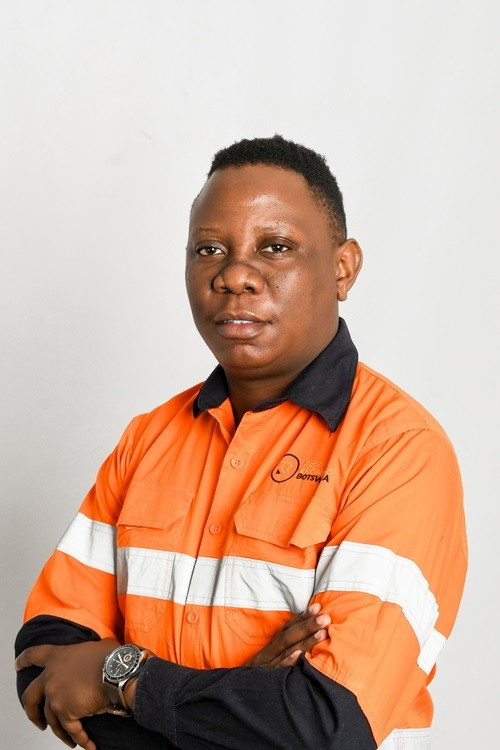
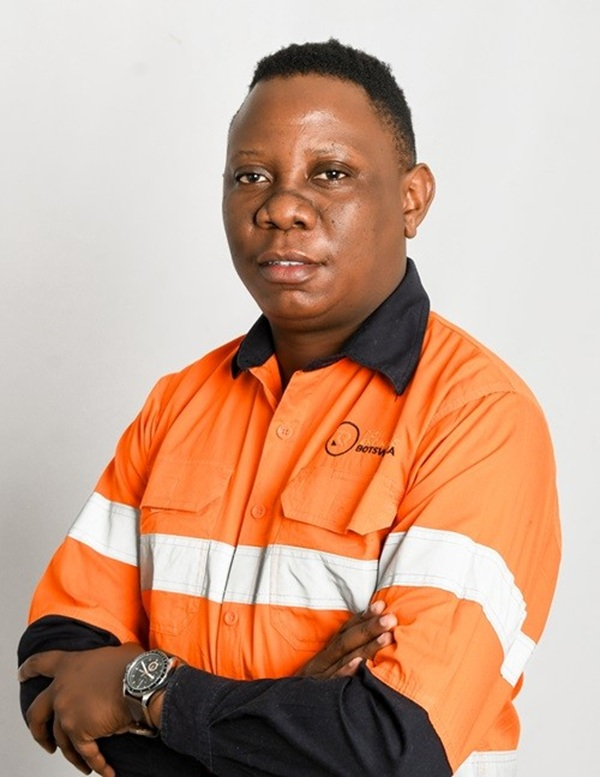
teams

diff --git a/styles.css b/styles.css
@@ -11,7 +11,7 @@
 /* about */
 .about-intro{display:grid;grid-template-columns:1.05fr .95fr;gap:62px;align-items:center}.about-photo{height:520px;object-fit:cover;border-radius:3px}.values{background:#0a0a0a;color:#fff}.values .display{max-width:700px}.values-grid{display:grid;grid-template-columns:repeat(3,1fr);gap:1px;background:#2b2b2b;margin-top:40px}.value{background:#0a0a0a;padding:32px}.value .n{color:var(--orange);font-weight:900;font-size:.72rem}.value h3{margin:17px 0 7px;font-size:1.05rem}.value p{margin:0;color:#a9a9a9;font-size:.82rem}.executive-grid{display:grid;grid-template-columns:repeat(2,1fr);gap:22px;margin-top:42px;max-width:800px}.exec{background:#f5f5f2;border-radius:16px;overflow:hidden}.exec img{width:100%;height:390px;object-fit:cover;object-position:center top}.exec-body{padding:23px}.exec .role{font-size:.69rem;color:var(--orange);font-weight:900;text-transform:uppercase;letter-spacing:.1em}.exec h3{margin:5px 0 10px;font-size:1.25rem}.exec p{font-size:.82rem;color:#6f6f6f;margin:0}.exec a{display:inline-block;margin-top:14px;font-size:.76rem;font-weight:800;border-bottom:2px solid var(--orange)}.value-prop{background:var(--orange);color:#fff}.vp-grid{display:grid;grid-template-columns:.8fr 1.2fr;gap:65px;align-items:start}.vp-grid .big{font-size:clamp(3rem,7vw,7rem);line-height:.8;font-weight:900;letter-spacing:-.06em}.vp-grid p{font-size:1rem;max-width:760px}.associations{display:grid;grid-template-columns:repeat(3,1fr);gap:18px;margin-top:35px}.assoc{border:1px solid var(--line);height:150px;display:flex;align-items:center;justify-content:center;padding:28px;background:#fff}.assoc img{max-height:80px;max-width:80%;object-fit:contain}.trust{background:var(--soft)}.trust-grid{display:grid;grid-template-columns:.7fr 1.3fr;gap:55px;align-items:center}.trust-stat strong{font-size:7rem;line-height:.8;font-weight:900;color:var(--orange)}.trust-stat span{display:block;font-size:1rem;font-weight:800;margin-top:12px}.logo-strip{display:grid;grid-template-columns:repeat(5,1fr);gap:12px}.client-logo{background:#fff;border:1px solid #e4e4df;height:105px;display:flex;align-items:center;justify-content:center;padding:17px}.client-logo img{max-height:62px;max-width:100%;object-fit:contain}.faq-layout{display:grid;grid-template-columns:.8fr 1.2fr;gap:60px;align-items:start}.faq-visual{width:100%;height:380px;object-fit:cover;border-radius:14px;margin-top:28px}.faq-list{border-top:1px solid #d6d6d6}.faq-item{border-bottom:1px solid #d6d6d6}.faq-q{width:100%;border:0;background:none;text-align:left;padding:22px 0;font-weight:800;display:flex;justify-content:space-between;gap:25px;cursor:pointer}.faq-q b{color:var(--orange);font-size:1.45rem;transition:.2s}.faq-a{max-height:0;overflow:hidden;transition:max-height .3s}.faq-a p{padding:0 34px 22px 0;margin:0;color:#6d6d6d;font-size:.88rem}.faq-item.open .faq-a{max-height:230px}.faq-item.open .faq-q b{transform:rotate(45deg)}
 /* team */
-.team-intro{max-width:760px}.team-grid{display:grid;grid-template-columns:repeat(5,1fr);gap:17px;margin-top:44px}.member{border:1px solid var(--line);background:#fff;cursor:pointer;transition:.25s;overflow:hidden}.member:hover{transform:translateY(-5px);box-shadow:var(--shadow)}.member img{width:100%;aspect-ratio:3/4;height:auto;object-fit:cover;object-position:center top}.member-info{padding:18px}.member-info h3{margin:0 0 3px;font-size:1rem}.member-info p{margin:0;color:var(--orange);font-size:.72rem;font-weight:800}.modal{position:fixed;inset:0;background:rgba(0,0,0,.72);z-index:2000;display:none;align-items:center;justify-content:center;padding:25px}.modal.open{display:flex}.modal-card{background:#fff;max-width:950px;width:100%;max-height:88vh;overflow:auto;position:relative;display:grid;grid-template-columns:340px 1fr}.modal-img{width:100%;height:100%;min-height:520px;object-fit:cover;object-position:center top}.modal-content{padding:38px}.modal-role{color:var(--orange);font-size:.72rem;font-weight:900;text-transform:uppercase;letter-spacing:.1em}.modal-content h2{font-size:2rem;margin:7px 0 4px}.qual{font-size:.82rem;font-weight:700;color:#555;margin-bottom:20px}.bio{font-size:.9rem;color:#555}.close-modal{position:absolute;right:17px;top:17px;width:38px;height:38px;border-radius:50%;border:0;background:#111;color:#fff;font-size:1.3rem;cursor:pointer;z-index:2}
+.team-intro{max-width:760px}.team-grid{display:grid;grid-template-columns:repeat(5,1fr);gap:17px;margin-top:44px}.member{border:1px solid var(--line);background:#fff;cursor:pointer;transition:.25s;overflow:hidden}.member:hover{transform:translateY(-5px);box-shadow:var(--shadow)}.member img{width:100%;aspect-ratio:3/4;height:auto;object-fit:cover;object-position:center top}.member img.zoom-tight{transform:scale(1.38);object-position:center 15%}.member-info{padding:18px}.member-info h3{margin:0 0 3px;font-size:1rem}.member-info p{margin:0;color:var(--orange);font-size:.72rem;font-weight:800}.modal{position:fixed;inset:0;background:rgba(0,0,0,.72);z-index:2000;display:none;align-items:center;justify-content:center;padding:25px}.modal.open{display:flex}.modal-card{background:#fff;max-width:950px;width:100%;max-height:88vh;overflow:auto;position:relative;display:grid;grid-template-columns:340px 1fr}.modal-img{width:100%;height:100%;min-height:520px;object-fit:cover;object-position:center top}.modal-img-wrap{position:relative;overflow:hidden;width:100%;height:100%;min-height:520px}.modal-img-wrap .modal-img{position:absolute;inset:0;min-height:0}.modal-img.zoom-tight{transform:scale(1.3);object-position:center 15%}.modal-content{padding:38px}.modal-role{color:var(--orange);font-size:.72rem;font-weight:900;text-transform:uppercase;letter-spacing:.1em}.modal-content h2{font-size:2rem;margin:7px 0 4px}.qual{font-size:.82rem;font-weight:700;color:#555;margin-bottom:20px}.bio{font-size:.9rem;color:#555}.close-modal{position:absolute;right:17px;top:17px;width:38px;height:38px;border-radius:50%;border:0;background:#111;color:#fff;font-size:1.3rem;cursor:pointer;z-index:2}
 /* contact */
 .contact-wrap{display:grid;grid-template-columns:.88fr 1.12fr;min-height:720px}.contact-image{min-height:720px;background:url('contact-wind.jpg') center/cover no-repeat;position:relative}.contact-image:after{content:"";position:absolute;inset:0;background:linear-gradient(0deg,rgba(0,0,0,.35),transparent 60%)}.contact-panel{padding:68px clamp(30px,6vw,88px);background:#fff}.contact-panel h1{font-size:clamp(3rem,6vw,6rem);line-height:.9;letter-spacing:-.06em;margin:0}.contact-meta{display:grid;grid-template-columns:1fr 1fr;gap:16px;margin:31px 0 36px}.meta-box{border-top:2px solid var(--orange);padding-top:11px}.meta-box small{display:block;color:#999;font-size:.67rem;text-transform:uppercase;letter-spacing:.1em;font-weight:800}.meta-box span{font-size:.82rem}.form-grid{display:grid;grid-template-columns:1fr 1fr;gap:15px}.field.full{grid-column:1/-1}.field label{display:block;font-size:.68rem;font-weight:900;text-transform:uppercase;letter-spacing:.08em;margin-bottom:6px}.field input,.field select,.field textarea{width:100%;border:1px solid #d8d8d8;border-radius:2px;padding:13px 14px;outline:none;background:#fff}.field input:focus,.field select:focus,.field textarea:focus{border-color:var(--orange);box-shadow:0 0 0 3px rgba(233,97,38,.09)}.field textarea{min-height:145px;resize:vertical}.form-note{font-size:.7rem;color:#8a8a8a;margin:10px 0 18px}.form-status{font-size:.82rem;margin-top:14px;padding:12px 16px;border-radius:4px;display:none}.form-status.show{display:block}.form-status.success{background:#e9f7ee;color:#1d7a3c;border:1px solid #bfe6cc}.form-status.error{background:#fdecea;color:#b3261e;border:1px solid #f3c4c0}.field.invalid input,.field.invalid select,.field.invalid textarea{border-color:#d93025;box-shadow:0 0 0 3px rgba(217,48,37,.08)}.field-error{display:none;color:#d93025;font-size:.7rem;margin-top:5px;font-weight:700}.field.invalid .field-error{display:block}.hp-field{position:absolute;left:-9999px;top:-9999px;opacity:0;height:0;width:0;pointer-events:none}
 /* services/resources */
@@ -19,14 +19,14 @@
 /* resources: checklist + mini-app shell */
 .resource-section{margin-top:70px}.resource-section:first-child{margin-top:0}.checklist-card{background:var(--soft);border-top:5px solid var(--orange);padding:44px;border-radius:4px}.checklist-card h2{margin:0 0 14px}.checklist-card .lead{margin:0 0 26px;max-width:640px}.checklist-note{margin-top:22px;padding:14px 18px;background:#fff;border:1px dashed #cfcfcf;border-radius:4px;font-size:.78rem;color:#777;max-width:640px}.mini-app-card{background:#0a0a0a;color:#fff;padding:44px;border-radius:4px}.mini-app-card h2{margin:0 0 14px;color:#fff}.mini-app-card .lead{color:#b7b7b7;margin:0 0 26px;max-width:640px}.mini-app-shell{background:#141414;border:1px solid #262626;border-radius:10px;padding:30px;max-width:640px}.mini-app-progress{height:6px;background:#262626;border-radius:999px;overflow:hidden;margin-bottom:24px}.mini-app-progress-bar{height:100%;width:0%;background:var(--orange);transition:width .3s}.mini-app-question{min-height:120px;display:flex;align-items:center;justify-content:center;color:#777;font-size:.85rem;text-align:center;border:1px dashed #333;border-radius:8px;padding:20px}.mini-app-results{display:none;text-align:center;padding:20px}.mini-app-results.open{display:block}.mini-app-start{margin-top:4px}
 /* homepage logo marquee */
-.logo-marquee{overflow:hidden;background:#fff;border-bottom:1px solid var(--line);padding:34px 0}.marquee-track{display:flex;align-items:center;gap:56px;width:max-content;animation:marquee-scroll 110s linear infinite}.logo-marquee:hover .marquee-track{animation-play-state:paused}.marquee-track img{height:44px;max-width:130px;width:auto;object-fit:contain;filter:grayscale(1);opacity:.7;transition:.25s;flex:none}.marquee-track img:hover{filter:none;opacity:1}@keyframes marquee-scroll{from{transform:translateX(0)}to{transform:translateX(-50%)}}
+.logo-marquee{overflow:hidden;background:#fff;border-bottom:1px solid var(--line);padding:34px 0}.marquee-track{display:flex;align-items:center;gap:56px;width:max-content;animation:marquee-scroll 110s linear infinite}.logo-marquee:hover .marquee-track{animation-play-state:paused}.marquee-track img{height:44px;max-width:130px;width:auto;object-fit:contain;opacity:.92;transition:.25s;flex:none}.marquee-track img:hover{opacity:1;transform:scale(1.06)}@keyframes marquee-scroll{from{transform:translateX(0)}to{transform:translateX(-50%)}}
 /* testimonials */
-.testimonial-grid{display:grid;grid-template-columns:repeat(3,1fr);gap:20px;margin-top:40px}.testimonial-card{background:var(--soft);border-radius:16px;padding:30px;border-top:4px solid var(--orange);display:flex;flex-direction:column}.testimonial-card .t-quote{margin:0 0 20px;font-size:.86rem;color:#3c3c3c;line-height:1.6;font-style:italic;flex:1}.testimonial-card .t-attrib{margin-top:auto;padding-top:14px;border-top:1px solid var(--line)}.testimonial-card .t-name{display:block;font-weight:800;color:#111;font-size:.82rem}.testimonial-card .t-role{display:block;color:var(--muted);font-size:.72rem;margin-top:2px}
+.testimonial-grid{display:grid;grid-template-columns:repeat(3,1fr);gap:20px;margin-top:40px}.testimonial-card{background:var(--soft);border-radius:16px;padding:30px;border-top:4px solid var(--orange);display:flex;flex-direction:column}.testimonial-card .t-logo-row{display:flex;align-items:center;height:38px;margin-bottom:18px}.testimonial-card .t-logo{max-height:38px;max-width:128px;object-fit:contain;object-position:left center}.testimonial-card .t-logo-fallback{width:38px;height:38px;border-radius:50%;background:#111;color:#fff;display:flex;align-items:center;justify-content:center;font-weight:900;font-size:.7rem;letter-spacing:.02em;flex:none}.testimonial-card .t-quote{margin:0 0 20px;font-size:.86rem;color:#3c3c3c;line-height:1.6;font-style:italic;flex:1}.testimonial-card .t-attrib{margin-top:auto;padding-top:14px;border-top:1px solid var(--line)}.testimonial-card .t-name{display:block;font-weight:800;color:#111;font-size:.82rem}.testimonial-card .t-role{display:block;color:var(--muted);font-size:.72rem;margin-top:2px}
 /* dedicated projects page */
 .project-feature-grid{display:grid;gap:28px;margin-top:44px}.project-feature{display:grid;grid-template-columns:.85fr 1.15fr;border:1px solid var(--line);border-radius:18px;overflow:hidden;background:#fff}.project-feature img{width:100%;height:100%;min-height:300px;object-fit:cover}.project-feature-body{padding:40px}.project-feature-body .meta{font-size:.68rem;color:var(--orange);font-weight:900;letter-spacing:.1em;text-transform:uppercase}.project-feature-body h3{font-size:1.9rem;margin:10px 0 18px;letter-spacing:-.03em;line-height:1.05}.project-feature-body dl{display:grid;grid-template-columns:auto 1fr;gap:9px 16px;margin:0;font-size:.85rem}.project-feature-body dt{font-weight:800;color:#111}.project-feature-body dd{margin:0;color:#6e6e6e}
 /* footer */
 footer{background:#050505;color:#fff;padding:72px 0 25px}.footer-grid{display:grid;grid-template-columns:1.4fr .7fr .7fr 1fr;gap:45px}.footer-logo{display:inline-block}.footer-logo img{width:230px;filter:invert(1)}.footer-about p{color:#a4a4a4;font-size:.82rem;max-width:370px}.footer-social{display:flex;gap:10px;margin-top:20px}.footer-social a{width:38px;height:38px;border-radius:50%;border:1px solid #2c2c2c;display:grid;place-items:center;transition:.2s}.footer-social a:hover{background:var(--orange);border-color:var(--orange)}.footer-social svg{width:17px;height:17px;fill:#ccc;transition:.2s}.footer-social a:hover svg{fill:#fff}.footer h4{font-size:.72rem;text-transform:uppercase;letter-spacing:.12em}.footer ul{list-style:none;margin:0;padding:0}.footer li{margin:8px 0}.footer a,.footer .line{color:#aaa;font-size:.8rem}.footer a:hover{color:var(--orange)}.footer-bottom{border-top:1px solid #252525;margin-top:48px;padding-top:19px;display:flex;justify-content:space-between;color:#6f6f6f;font-size:.7rem}
 @media(max-width:1050px){.search-wrap{width:180px}.main-nav ul{gap:18px}.project-grid{grid-template-columns:1fr 1fr}.team-grid{grid-template-columns:repeat(3,1fr)}.footer-grid{grid-template-columns:1.2fr 1fr 1fr}.footer-about{grid-column:1/-1}.testimonial-grid{grid-template-columns:1fr 1fr}.project-feature{grid-template-columns:1fr}.project-feature img{min-height:240px}}
 @media(max-width:900px){.main-nav{position:fixed;left:18px;right:18px;top:78px;background:#fff;border:1px solid var(--line);box-shadow:var(--shadow);padding:16px;display:none}.main-nav.open{display:block}.main-nav ul{display:block}.main-nav li{border-bottom:1px solid #eee}.main-nav li:last-child{border:0}.main-nav a{display:block;padding:12px}.search-wrap{margin-left:auto;width:min(250px,32vw)}.menu-btn{display:block}.nav-wrap{min-height:78px}.split-intro,.about-intro,.faq-layout,.vp-grid,.trust-grid{grid-template-columns:1fr}.stats{border-left:0;border-top:1px solid #ddd;padding:25px 0 0}.service-grid{grid-template-columns:1fr 1fr}.executive-grid{grid-template-columns:1fr 1fr}.values-grid{grid-template-columns:1fr 1fr}.team-grid{grid-template-columns:repeat(2,1fr)}.contact-wrap{grid-template-columns:1fr}.contact-image{min-height:420px}.contact-panel{padding:55px 28px}.service-detail-grid{grid-template-columns:1fr}.resource-grid{grid-template-columns:1fr}.modal-card{grid-template-columns:280px 1fr}.logo-strip{grid-template-columns:repeat(3,1fr)}.checklist-card,.mini-app-card{padding:32px}}
-@media(max-width:650px){.container{width:calc(100% - 28px)}.brand img{width:178px;max-width:55vw}.search-wrap{width:44px}.site-search{width:44px;padding:11px;border-radius:50%;cursor:pointer;color:transparent}.site-search::placeholder{color:transparent}.site-search:focus{position:fixed;left:14px;right:14px;top:68px;width:calc(100% - 28px);color:#111;border-radius:999px;z-index:1100}.site-search:focus::placeholder{color:#888}.search-results{position:fixed;left:14px;right:14px;top:115px;width:auto}.hero{min-height:640px;height:calc(100svh - 76px)}.hero h1{font-size:clamp(3rem,15vw,5.3rem)}.arr{display:none}.section{padding:72px 0}.head-row{display:block}.service-grid,.project-grid,.executive-grid,.values-grid,.team-grid{grid-template-columns:1fr}.service-card{min-height:270px}.project-img{height:220px}.about-photo{height:380px}.exec img{height:430px}.logo-strip{grid-template-columns:1fr 1fr}.trust-stat strong{font-size:5rem}.team-grid{grid-template-columns:1fr 1fr}.modal-card{display:block}.modal-img{height:340px;min-height:0}.modal-content{padding:25px}.contact-meta,.form-grid{grid-template-columns:1fr}.field.full{grid-column:auto}.footer-grid{grid-template-columns:1fr 1fr}.footer-about{grid-column:1/-1}.footer-bottom{display:block}.cta-row{display:block}.cta-row .btn{margin-top:25px;width:100%}.testimonial-grid{grid-template-columns:1fr}.marquee-track{gap:48px}.marquee-track img{height:36px}.checklist-card,.mini-app-card{padding:26px}}
+@media(max-width:650px){.container{width:calc(100% - 28px)}.brand img{width:178px;max-width:55vw}.search-wrap{width:44px}.site-search{width:44px;padding:11px;border-radius:50%;cursor:pointer;color:transparent}.site-search::placeholder{color:transparent}.site-search:focus{position:fixed;left:14px;right:14px;top:68px;width:calc(100% - 28px);color:#111;border-radius:999px;z-index:1100}.site-search:focus::placeholder{color:#888}.search-results{position:fixed;left:14px;right:14px;top:115px;width:auto}.hero{min-height:640px;height:calc(100svh - 76px)}.hero h1{font-size:clamp(3rem,15vw,5.3rem)}.arr{display:none}.section{padding:72px 0}.head-row{display:block}.service-grid,.project-grid,.executive-grid,.values-grid,.team-grid{grid-template-columns:1fr}.service-card{min-height:270px}.project-img{height:220px}.about-photo{height:380px}.exec img{height:430px}.logo-strip{grid-template-columns:1fr 1fr}.trust-stat strong{font-size:5rem}.team-grid{grid-template-columns:1fr 1fr}.modal-card{display:block}.modal-img,.modal-img-wrap{height:340px;min-height:0}.modal-content{padding:25px}.contact-meta,.form-grid{grid-template-columns:1fr}.field.full{grid-column:auto}.footer-grid{grid-template-columns:1fr 1fr}.footer-about{grid-column:1/-1}.footer-bottom{display:block}.cta-row{display:block}.cta-row .btn{margin-top:25px;width:100%}.testimonial-grid{grid-template-columns:1fr}.marquee-track{gap:48px}.marquee-track img{height:36px}.checklist-card,.mini-app-card{padding:26px}}
 @media(max-width:430px){.team-grid{grid-template-columns:1fr}.footer-grid{grid-template-columns:1fr}.footer-about{grid-column:auto}.hero-actions{display:grid}.hero-actions .btn{width:100%}.logo-strip{grid-template-columns:1fr 1fr}}

diff --git a/about.html b/about.html
@@ -193,6 +193,13 @@
           </p>
           <div class="testimonial-grid">
             <article class="testimonial-card">
+              <div class="t-logo-row">
+                <img
+                  class="t-logo"
+                  src="assets/clients/bpc.png"
+                  alt="Botswana Power Corporation"
+                />
+              </div>
               <p class="t-quote">
                 "We wish to further state we are pleased with the quality of the
                 survey reports, findings and ultimate recommendations produced
@@ -206,6 +213,13 @@
               </div>
             </article>
             <article class="testimonial-card">
+              <div class="t-logo-row">
+                <img
+                  class="t-logo"
+                  src="assets/clients/debswana.png"
+                  alt="Debswana"
+                />
+              </div>
               <p class="t-quote">
                 "I have no hesitation in recommending Risk Engineers Botswana
                 for any risk management including his speciality area of
@@ -217,6 +231,9 @@
               </div>
             </article>
             <article class="testimonial-card">
+              <div class="t-logo-row">
+                <img class="t-logo" src="assets/clients/lucara.png" alt="Lucara Botswana" />
+              </div>
               <p class="t-quote">
                 "Please note that Paul Ramokgalo has done work on Business
                 Continuity Management at Lucara Botswana in 2014. The work done
@@ -230,6 +247,9 @@
               </div>
             </article>
             <article class="testimonial-card">
+              <div class="t-logo-row">
+                <img class="t-logo" src="assets/clients/Botswana_ash.png" alt="Botswana Ash" />
+              </div>
               <p class="t-quote">
                 "We believe that Risk Engineers Botswana under the leadership of
                 Paul, has the capability in manpower, technical and financial
@@ -244,6 +264,9 @@
               </div>
             </article>
             <article class="testimonial-card">
+              <div class="t-logo-row">
+                <img class="t-logo" src="assets/clients/btc.png" alt="BTC" />
+              </div>
               <p class="t-quote">
                 "Risk Engineers Botswana did brokering services and risk survey
                 respectively for my organisation, BTC. In all our interactions
